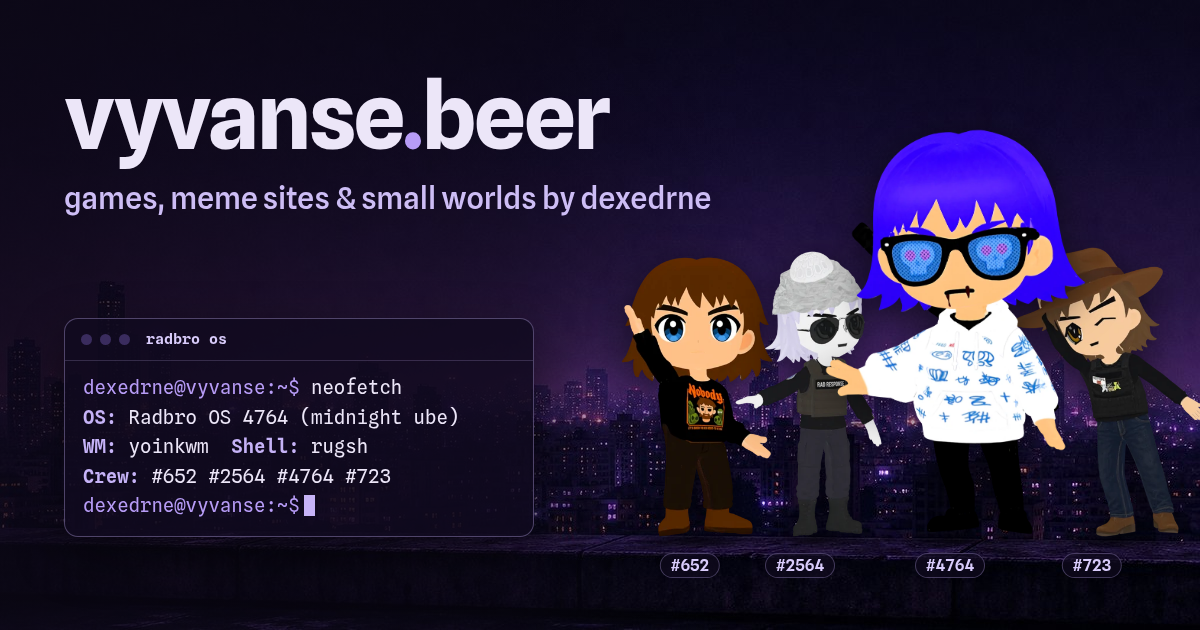
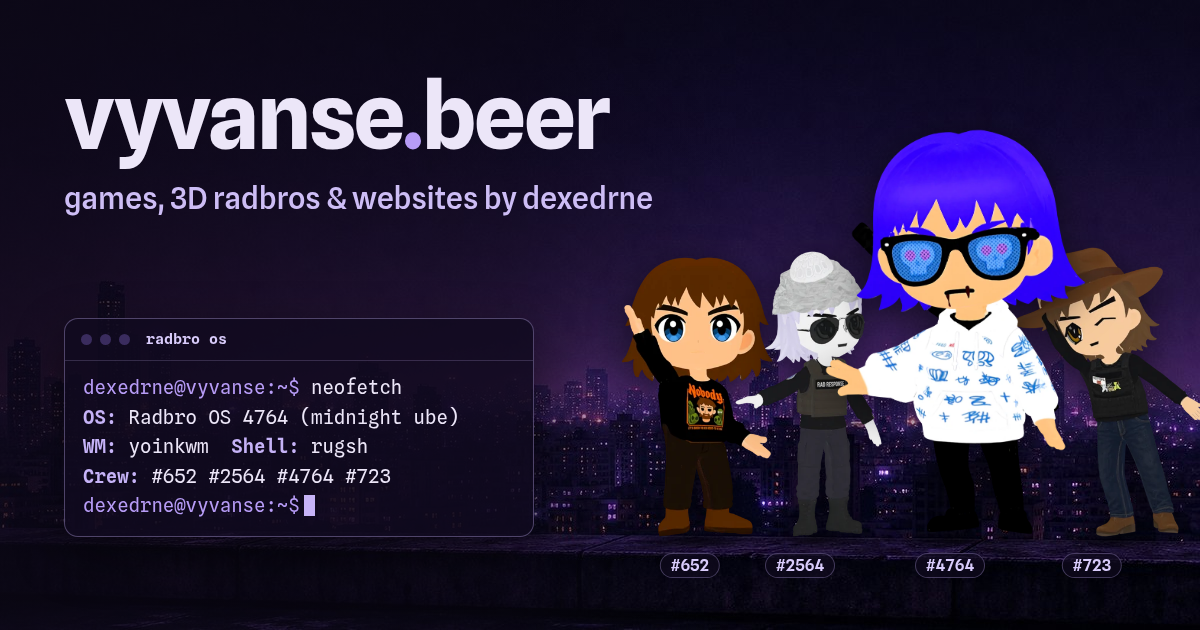
Own games vs sites built for other projects; Rug Run is now RadRun

Changed region(s): [[0.1233, 0.3016, 0.6167, 0.3317]]

diff --git a/src/projects.js b/src/projects.js
@@ -8,7 +8,7 @@
 //   cmd       terminal name: `open <cmd>`, `info <cmd>`. Lowercase, no spaces.
 //   aliases   optional extra names the terminal accepts
 //   slug      anchor id on the page (vyvanse.beer/#slug)
-//   group     'games' or 'older' (see `groups`)
+//   group     'games' or 'sites' (see `groups`)
 //   name      display name
 //   kind      one line saying what it is
 //   blurb     plain-text description
@@ -26,7 +26,7 @@
 export const site = {
   name: 'vyvanse.beer',
   handle: 'dexedrne',
-  tagline: 'Browser games, meme sites and small worlds by dexedrne.',
+  tagline: 'Games, 3D Radbros and websites by dexedrne.',
   links: [
     { cmd: 'github', label: 'GitHub', href: 'https://github.com/dexedrne' },
     { cmd: 'x', label: 'X', href: 'https://x.com/dexedrne' },
@@ -34,31 +34,31 @@ export const site = {
 };
 
 export const groups = [
-  { id: 'games', title: 'Games', line: 'Games and worlds that run in a browser tab.' },
-  { id: 'older', title: 'Older things', line: 'Earlier sites and toys, still online.' },
+  { id: 'games', title: 'Games', line: 'Games I make. They run in a browser tab.' },
+  { id: 'sites', title: 'Sites I built', line: 'Websites I made for other people’s projects.' },
 ];
 
 export const projects = [
   {
-    cmd: 'rugrun',
-    aliases: ['rug-run'],
-    slug: 'rug-run',
+    cmd: 'radrun',
+    aliases: ['rug-run', 'rugrun'],
+    slug: 'radrun',
     group: 'games',
-    name: 'Rug Run',
+    name: 'RadRun',
     kind: 'Radbro rooftop chase, free-swing 3D browser game',
     blurb:
       'He swiped your bag. You get 90 seconds to swing across the rooftops and take it back. Runs in the browser, nothing to install.',
-    url: 'https://rugrun.vyvanse.beer',
+    url: 'https://radrun.vyvanse.beer',
     frame: true,
     links: [
-      { label: 'Play', href: 'https://rugrun.vyvanse.beer' },
-      { label: 'Source', href: 'https://github.com/dexedrne/rug-run' },
+      { label: 'Play', href: 'https://radrun.vyvanse.beer' },
+      { label: 'Source', href: 'https://github.com/dexedrne/radrun' },
     ],
     image: {
       src: '/img/rug-run.jpg',
       width: 1200,
       height: 630,
-      alt: 'Rug Run: a Radbro swings on a rope between city rooftops, chasing the thief who took the bag.',
+      alt: 'RadRun: a Radbro swings on a rope between city rooftops, chasing the thief who took the bag.',
     },
     credit: {
       before: 'Built on',
@@ -72,9 +72,9 @@ export const projects = [
     slug: 'solscape',
     group: 'games',
     name: 'Solscape',
-    kind: 'Original multiplayer browser world, open beta',
+    kind: 'My open-source, copyright-free rev254 private server, on Solana',
     blurb:
-      'Create an account, train skills, take on quests and explore a living fantasy world with other players.',
+      'An open-source, copyright-free rev254 private server with a Solana twist. Create an account, train skills, take on quests and explore with other players.',
     url: 'https://play.solscape.fun',
     frame: true,
     links: [
@@ -91,9 +91,9 @@ export const projects = [
   {
     cmd: 'bitcorn',
     slug: 'bitcorn',
-    group: 'games',
+    group: 'sites',
     name: 'BITCORN',
-    kind: 'A 3D corn maze and a pixel farm',
+    kind: 'Project site with a 3D corn maze and a pixel farm',
     blurb: 'Run Cornelius’s 3D corn maze, find Husk, chat by the fence, and grow a pixel farm.',
     url: 'https://bitcorn.lol/maze',
     frame: false,
@@ -112,11 +112,11 @@ export const projects = [
     cmd: 'bulkos',
     aliases: ['bulk', 'bulk-os'],
     slug: 'bulk-os',
-    group: 'older',
-    name: 'BULK OS',
-    kind: 'An old web desktop full of early games',
+    group: 'sites',
+    name: 'BULK OS + bulk games',
+    kind: 'Project site, web desktop and sprite games',
     blurb:
-      'The early stuff: a web “OS” packed with old games and toys, from back when every asset was made separately and hand-edited into sprites in GIMP.',
+      'A web “OS” packed with games and toys, from back when every asset was made separately and hand-edited into sprites in GIMP.',
     url: 'https://www.bulked.lol/os',
     frame: true,
     links: [
@@ -127,9 +127,9 @@ export const projects = [
   {
     cmd: 'sanic',
     slug: 'sanic',
-    group: 'older',
+    group: 'sites',
     name: '$SANIC',
-    kind: 'Playable WebGL ring runner',
+    kind: 'Project site with a playable WebGL ring runner',
     blurb:
       'Run the trenches, stack rings, and go irresponsibly fast. The runner plays right on the landing page.',
     url: 'https://www.sanic.fun',
@@ -139,9 +139,9 @@ export const projects = [
   {
     cmd: 'hog',
     slug: 'hog',
-    group: 'older',
+    group: 'sites',
     name: 'HOG on Solana',
-    kind: 'A 2D motorcycle sim on a meme site',
+    kind: 'Project site with a 2D motorcycle sim',
     blurb: 'Rev the engine, hold the RPM, don’t stall.',
     url: 'https://www.crankmyhog.lol',
     frame: true,
@@ -151,11 +151,11 @@ export const projects = [
 
 // The Radbros, rendered in 3D with transparent backgrounds.
 // `num` is what the terminal takes (`info 4764`). `featured` = the site mascot.
-// `soon` = built for Rug Run but not playable there yet; drop it once he is.
+// `soon` = built for RadRun but not playable there yet; drop it once he is.
 export const crew = {
   title: 'The crew',
-  line: 'Radbros #652, #4764, #2564 and #723, built in 3D and playable in Rug Run.',
-  playIn: 'rugrun',
+  line: 'Radbros #652, #4764, #2564 and #723, built in 3D and playable in RadRun.',
+  playIn: 'radrun',
   downloadAll: { href: 'https://github.com/dexedrne/vyvanse.beer/releases/download/radbros-3d/radbros-3d-all.zip', label: 'all four, one .zip', size: '78 MB' },
   members: [
     {
@@ -224,7 +224,7 @@ export const mascot = {
   model: '/models/radbro4764-hero.glb',
 };
 
-// Host shown in lists and window title bars: "rugrun.vyvanse.beer", "bulked.lol/os".
+// Host shown in lists and window title bars: "radrun.vyvanse.beer", "bulked.lol/os".
 export function shortUrl(href) {
   const u = new URL(href);
   const path = u.pathname === '/' ? '' : u.pathname.replace(/\/$/, '');

diff --git a/index.html b/index.html
@@ -4,7 +4,7 @@
     <meta charset="utf-8" />
     <meta name="viewport" content="width=device-width, initial-scale=1, viewport-fit=cover, interactive-widget=resizes-content" />
     <title>vyvanse.beer</title>
-    <meta name="description" content="Browser games, meme sites and small worlds by dexedrne. Open any of them from the page or from the terminal." />
+    <meta name="description" content="Games, 3D Radbros and websites by dexedrne. Open any of them from the page or from the terminal." />
     <link rel="canonical" href="https://vyvanse.beer/" />
 
     <meta name="color-scheme" content="dark" />
@@ -16,21 +16,21 @@
     <meta property="og:type" content="website" />
     <meta property="og:site_name" content="vyvanse.beer" />
     <meta property="og:title" content="vyvanse.beer" />
-    <meta property="og:description" content="Browser games, meme sites and small worlds by dexedrne. Open them from the terminal." />
+    <meta property="og:description" content="Games, 3D Radbros and websites by dexedrne. Open them from the terminal." />
     <meta property="og:url" content="https://vyvanse.beer/" />
     <meta property="og:image" content="https://vyvanse.beer/og.png" />
     <meta property="og:image:width" content="1200" />
     <meta property="og:image:height" content="630" />
     <meta property="og:image:type" content="image/png" />
-    <meta property="og:image:alt" content="vyvanse.beer: games, meme sites &amp; small worlds by dexedrne. Radbros #652, #2564, #4764 and #723 on a midnight-purple rooftop, next to a Radbro OS terminal." />
+    <meta property="og:image:alt" content="vyvanse.beer: games, 3D radbros &amp; websites by dexedrne. Radbros #652, #2564, #4764 and #723 on a midnight-purple rooftop, next to a Radbro OS terminal." />
 
     <meta name="twitter:card" content="summary_large_image" />
     <meta name="twitter:site" content="@dexedrne" />
     <meta name="twitter:creator" content="@dexedrne" />
     <meta name="twitter:title" content="vyvanse.beer" />
-    <meta name="twitter:description" content="Browser games, meme sites and small worlds by dexedrne. Open them from the terminal." />
+    <meta name="twitter:description" content="Games, 3D Radbros and websites by dexedrne. Open them from the terminal." />
     <meta name="twitter:image" content="https://vyvanse.beer/og.png" />
-    <meta name="twitter:image:alt" content="vyvanse.beer: games, meme sites &amp; small worlds by dexedrne. Radbros #652, #2564, #4764 and #723 on a midnight-purple rooftop, next to a Radbro OS terminal." />
+    <meta name="twitter:image:alt" content="vyvanse.beer: games, 3D radbros &amp; websites by dexedrne. Radbros #652, #2564, #4764 and #723 on a midnight-purple rooftop, next to a Radbro OS terminal." />
 
     <script>document.documentElement.classList.add('js')</script>
     <link rel="stylesheet" href="/src/style.css" />
@@ -85,7 +85,7 @@
           <button type="button" data-cmd="help">help</button>
           <button type="button" data-cmd="ls">ls</button>
           <button type="button" data-cmd="neofetch">neofetch</button>
-          <button type="button" data-cmd="open rugrun">open rugrun</button>
+          <button type="button" data-cmd="open radrun">open radrun</button>
           <button type="button" data-cmd="crew">crew</button>
           <button type="button" data-cmd="whoami">whoami</button>
           <button type="button" data-cmd="links">links</button>

diff --git a/src/commands.js b/src/commands.js
@@ -204,7 +204,7 @@ export function createCommands({ site, groups, projects, crew, wm, term, page, b
     },
     ls: {
       usage: 'ls [section]',
-      desc: 'list games, crew or older',
+      desc: 'list games, crew or sites',
       args: () => sections,
       run(args) {
         const want = args[0] ? norm(args[0]).replace(/\/$/, '') : null;
@@ -246,7 +246,7 @@ export function createCommands({ site, groups, projects, crew, wm, term, page, b
         const social = site.links.find((l) => l.cmd === norm(args[0]));
         if (social) return table[social.cmd].run([], ctx);
         if (findBro(args)) {
-          term.print(line("radbros aren't websites, but they're playable in ", run('open rugrun'), '.'));
+          term.print(line("radbros aren't websites, but they're playable in ", run('open radrun'), '.'));
           return;
         }
         const guess = closest(norm(args.join('')), [...byName.keys()]);
@@ -332,7 +332,7 @@ export function createCommands({ site, groups, projects, crew, wm, term, page, b
       desc: 'who makes this',
       run() {
         term.print(line(strong(site.handle)));
-        term.print(line('makes browser games, meme sites and small worlds.'));
+        term.print(line('makes browser games and 3D radbros, and builds websites for other people’s projects.'));
         term.print(grid(...site.links.flatMap((l) => [muted(l.label.toLowerCase()), link(l.href, shortUrl(l.href), 'me noopener')])));
       },
     },
@@ -364,7 +364,7 @@ export function createCommands({ site, groups, projects, crew, wm, term, page, b
       desc: 'list open windows',
       run() {
         const list = wm.list();
-        if (!list.length) return term.print(line(muted('no windows open. projects open in a new tab; to run one here, try '), run('win rugrun')));
+        if (!list.length) return term.print(line(muted('no windows open. projects open in a new tab; to run one here, try '), run('win radrun')));
         term.print(
           grid(
             ...list.flatMap((w) => [
@@ -407,7 +407,7 @@ export function createCommands({ site, groups, projects, crew, wm, term, page, b
         if (!on && !['off', 'no', 'false', '0'].includes(v)) return term.print(err('set: windows is on or off'));
         prefs.windows = on;
         if (on) term.print(line('windows on. ', muted('projects that allow it now open in a window here. '), run('set windows off', 'undo')));
-        else term.print(line('windows off. ', muted('projects open in a new tab. for a one-off window: '), run('win rugrun')));
+        else term.print(line('windows off. ', muted('projects open in a new tab. for a one-off window: '), run('win radrun')));
         if (!prefs.saved()) term.print(line(muted("this browser won't let the page remember it, so it lasts until you leave.")));
       },
     },
@@ -468,7 +468,7 @@ export function createCommands({ site, groups, projects, crew, wm, term, page, b
       run() {
         term.rug();
         term.print(line('the rug has been pulled. your bag is somewhere on the rooftops.'));
-        term.print(line('go get it: ', run('open rugrun')));
+        term.print(line('go get it: ', run('open radrun')));
       },
     },
   };

diff --git a/src/render.js b/src/render.js
@@ -185,7 +185,7 @@ export function renderContent({ groups, projects, crew }) {
   ${sectionHead(g.id, g.title, g.line)}
   ${body}
 </section>`);
-    // The crew sits between the games and the older things.
+    // The crew sits between the games and the sites.
     if (g.id === 'games') out.push(crewSection(crew, projects));
   }
   return out.join('\n');

diff --git a/scripts/og-card.html b/scripts/og-card.html
@@ -167,7 +167,7 @@
 
     <div class="copy">
       <h1>vyvanse<span class="dot">.</span>beer</h1>
-      <p class="tag">games, meme sites &amp; small worlds by dexedrne</p>
+      <p class="tag">games, 3D radbros &amp; websites by dexedrne</p>
     </div>
 
     <div class="term">

diff --git a/README.md b/README.md
@@ -28,7 +28,7 @@ hero is on screen.
 ## Add a project
 
 Add an entry to `projects` in [`src/projects.js`](src/projects.js). The fields are documented
-at the top of that file. `group: 'games'` gets a row with a screenshot, `group: 'older'` gets
+at the top of that file. `group: 'games'` gets a row with a screenshot, `group: 'sites'` gets
 a compact line. The `cmd` name is what the terminal takes (`open <cmd>`, `info <cmd>`), and it
 tab-completes automatically.
 
